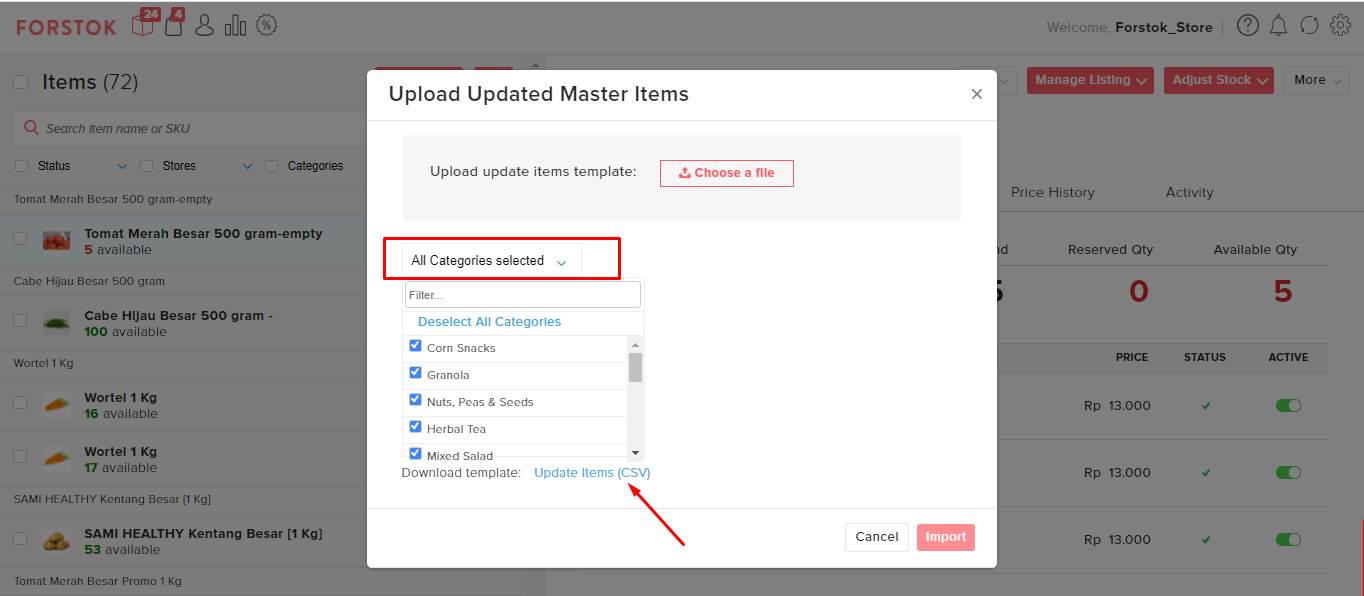
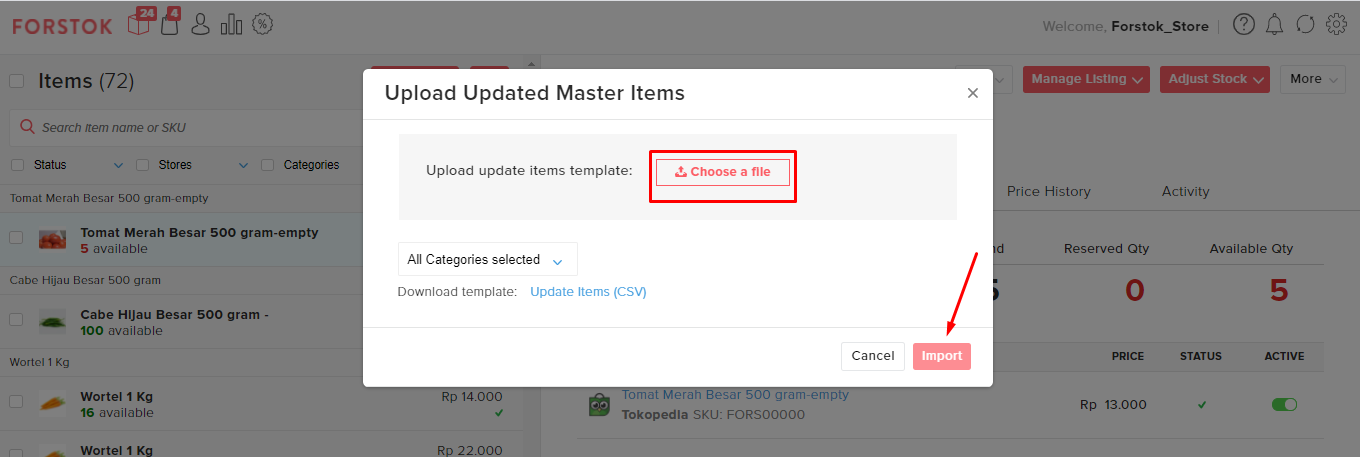
GitBook: [master] one page and 3 assets modified

diff --git a/knowledge-base/inventory/create-barcode-label.md b/knowledge-base/inventory/create-barcode-label.md
@@ -14,7 +14,7 @@ Berikut langkah-langkah untuk menginput barcode:
 
 2. Pilih category yang kan di input barcode atau bisa select all jika ingin semua category. Lalu download template pada Update Items. Template bisa di download via email atau notifications
 
-![](../../.gitbook/assets/image%20%28356%29.png)
+![](../../.gitbook/assets/image%20%28357%29.png)
 
 3. Input barcode pada kolom Barcode. Jangan lupa sheet di unprotect. 
 
@@ -22,5 +22,7 @@ Password: forstok123
 
 ![](../../.gitbook/assets/image%20%28339%29.png)
 
-4. Jika sudah selesai input barcode
+4. Jika sudah selesai input barcode. Upload file tsb lalu import
+
+![](../../.gitbook/assets/image%20%28356%29.png)
 
